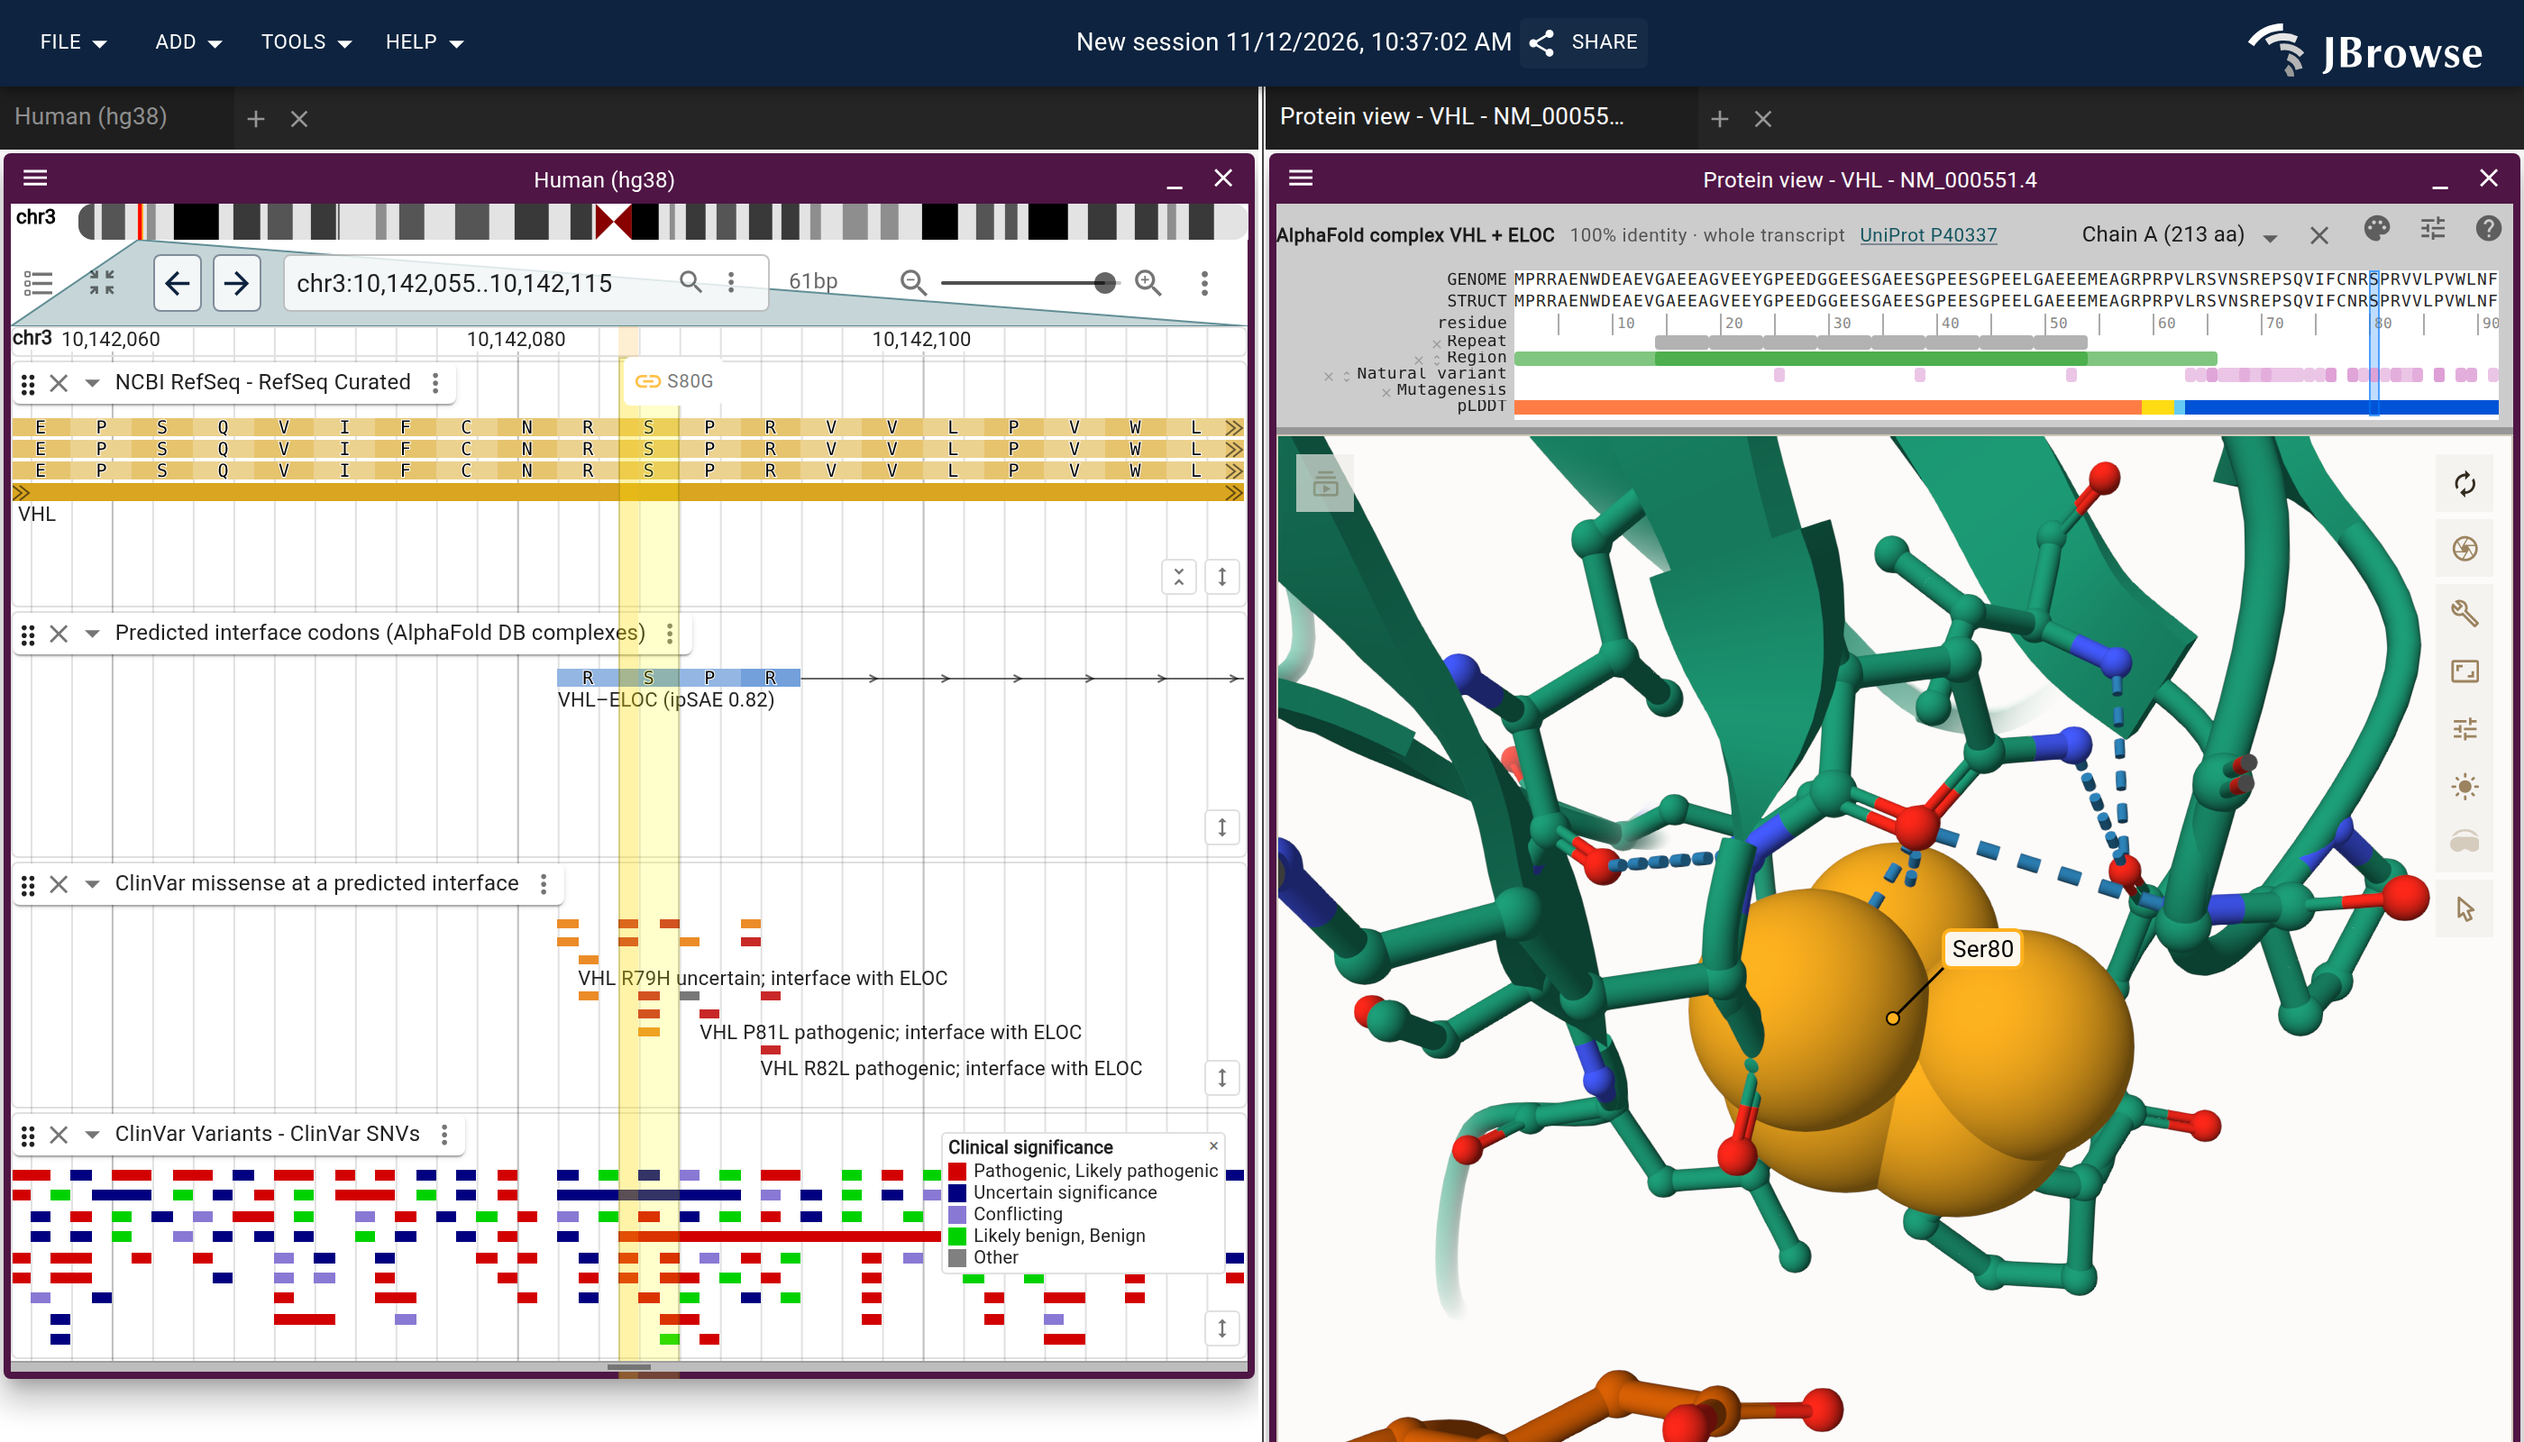
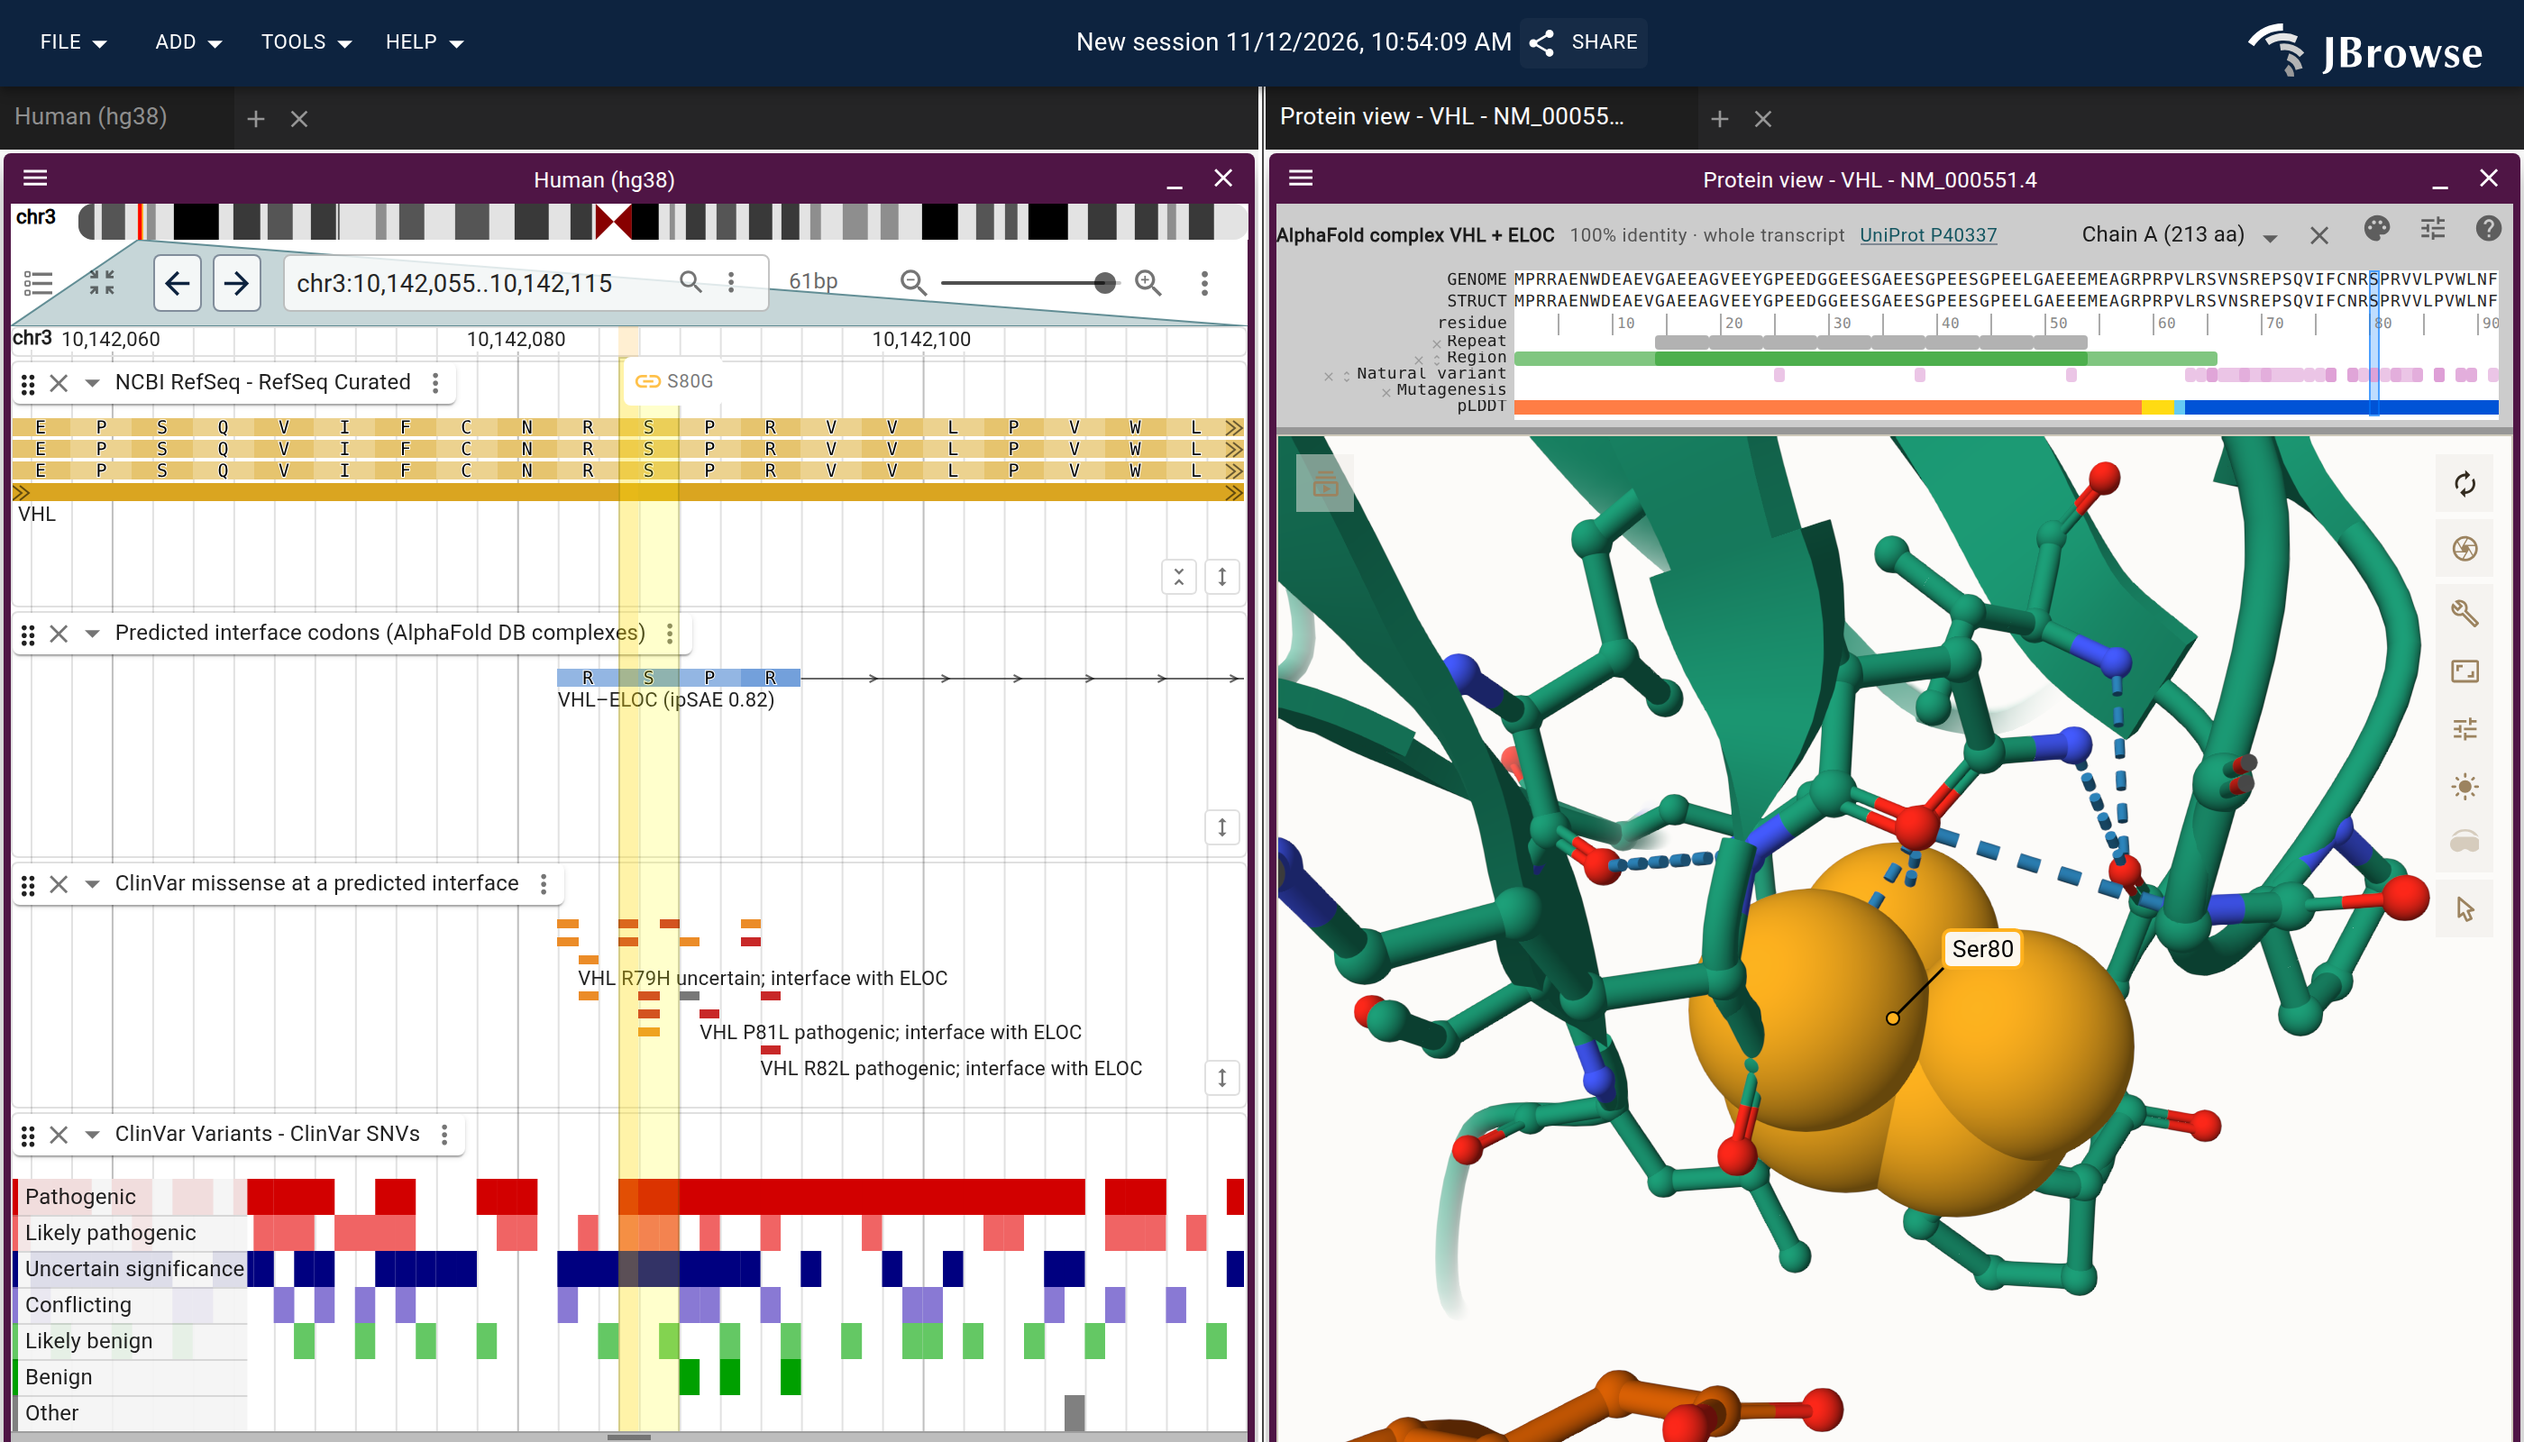
Open ClinVar in rows by clinical significance beside the 3D view

Changed region(s): [[0.0, 0.7812, 0.4971, 1.0], [0.4971, 0.3125, 0.5593, 0.375], [0.1243, 0.1875, 0.1864, 0.2188]]

diff --git a/site/app.js b/site/app.js
@@ -1,5 +1,7 @@
 const app = document.getElementById('app')
 const TRACKS = 'hg38-ncbiRefSeqCurated,interfaces,interface-variants,hg38-clinvarMain'
+const CLINVAR = 'hg38-clinvarMain'
+const VIEW_TRACKS = TRACKS.split(',').map(trackId => (trackId === CLINVAR ? { trackId, displaySnapshot: { type: 'LinearMultiRowFeatureDisplay' } } : trackId))
 const LABELS = { pathogenic: 'Pathogenic', uncertain: 'Uncertain', benign: 'Benign' }
 const cache = new Map()
 
@@ -32,7 +34,7 @@ function complexLink(gene, entity, loc, variant) {
     gene,
     alphaFoldComplexId: entity,
     ...(variant ? { variant } : {}),
-    connectedView: { assembly: 'hg38', loc, tracks: TRACKS.split(',') },
+    connectedView: { assembly: 'hg38', loc, tracks: VIEW_TRACKS },
   }
   return `jbrowse/?session=spec-${encodeURIComponent(JSON.stringify({ views: [view] }))}`
 }

diff --git a/slides/shots.ts b/slides/shots.ts
@@ -43,7 +43,7 @@ const shots: Shot[] = [
   { name: 'gpcr', url: local => `${local}#/gpcr`, height: 1000, wait: 2 },
   {
     name: 'variant3d',
-    url: () => `${live}#/gene/VHL`,
+    url: local => `${local}#/gene/VHL`,
     follow: '#variants tr:has(.chip.pathogenic) td:last-child a',
     height: 800,
     wait: 45,
@@ -163,7 +163,7 @@ async function capture(browser: Browser, shot: Shot, local: string) {
     await browser.send(
       'Runtime.evaluate',
       {
-        expression: `location.href = document.querySelector(${JSON.stringify(shot.follow)}).href`,
+        expression: `location.href = document.querySelector(${JSON.stringify(shot.follow)}).href.replace(location.origin + '/', ${JSON.stringify(live)})`,
       },
       session,
     )
